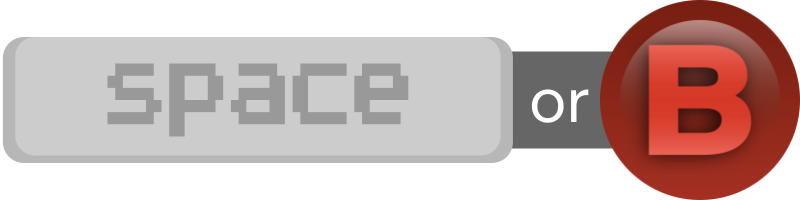
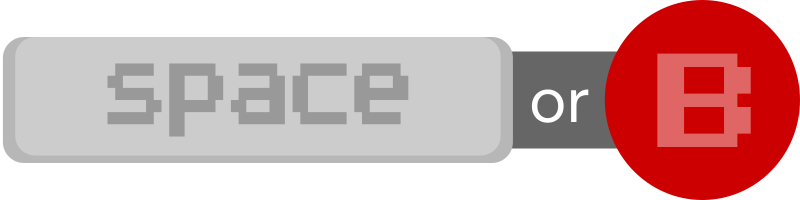
Update GamePad controls

Changed region(s): [[0.75, 0.0, 1.0, 1.0]]

diff --git a/Avoid/States/GameState.cs b/Avoid/States/GameState.cs
@@ -28,6 +28,7 @@ namespace Avoid.States
         private Button menuButton;
         private Button tryAgainButton;
         private Texture2D voidCircle;
+        private Texture2D aIcon;
         private Vector2 voidCirclePosition = new Vector2(710, 290);
         private HealthBar healthBar;
         private BlastBar blastBar;
@@ -200,6 +201,8 @@ namespace Avoid.States
                 stringSize = game.ArcadePI30.MeasureString(consolationMessage);
                 spriteBatch.DrawString(game.ArcadePI30, consolationMessage, new Vector2(960, 690) - stringSize / 2, Color.Gray);
                 tryAgainButton.Draw(spriteBatch);
+                if (game.gamePadState.IsConnected)
+                    spriteBatch.Draw(aIcon, new Vector2(1390, 800), Color.White);
             }
             // Always keep the menu button at the top left
             menuButton.Draw(spriteBatch);
@@ -237,6 +240,7 @@ namespace Avoid.States
             smallCircle = content.Load<Texture2D>("images/small_circle");
             arrows = content.Load<Texture2D>("images/up_down_arrows");
             spaceBar = content.Load<Texture2D>("images/space_bar");
+            aIcon = content.Load<Texture2D>("images/a_icon");
             celebratoryMessage = celebratoryMessages[rand.Next(celebratoryMessages.Length)];
             // Hint at how to get to the secret level if the player has completed the fifth level
             if (origLevel.id == 5)
@@ -277,10 +281,6 @@ namespace Avoid.States
                     gameStartTime = (float)gameTime.TotalGameTime.TotalMilliseconds;
                 }
                 return;
-            }
-            if (game.gamePadState.IsConnected)
-            {
-                tryAgainButton.text = "Try Again (A)";
             }
             if (!introInProgress && !musicPlaying)
             {

diff --git a/Avoid/States/Menu.cs b/Avoid/States/Menu.cs
@@ -15,7 +15,7 @@ namespace Avoid.States
 {
     class Menu : State
     {
-
+        private Texture2D menuControlsIcons;
         private Song backgroundMusic, ding;
         private Texture2D backgroundImage;
         private Texture2D titleImage;
@@ -42,10 +42,13 @@ namespace Avoid.States
             instructionsButton.Draw(spriteBatch);
             spriteBatch.DrawString(game.ArcadePI30, "a game by Sanjay R", new Vector2(170, 970), Color.Gray);
             game.levelManager.Draw(gameTime, spriteBatch);
+            if (game.gamePadState.IsConnected)
+                spriteBatch.Draw(menuControlsIcons, new Vector2(1680, 475), Color.White);
         }
 
         public override void LoadContent()
         {
+            menuControlsIcons = content.Load<Texture2D>("images/menu_controls_icons");
             backgroundMusic = content.Load<Song>("audio/lobby");
             ding = content.Load<Song>("audio/ding");
             backgroundImage = content.Load<Texture2D>("images/background2");
@@ -66,12 +69,6 @@ namespace Avoid.States
             if (menuStartTime == -1)
                 menuStartTime = (float)gameTime.TotalGameTime.TotalMilliseconds;
             // If a gamepad has been connected, add instructions for how to select on screen buttons to the button text
-            if (game.gamePadState.IsConnected)
-            {
-                playButton.text = "Start (A)";
-                leaderboardButton.text = "Leaderboard (X)";
-                instructionsButton.text = "How to Play (Y)";
-            }
             if (playButton.Clicked() || game.gamePadState.IsButtonDown(Buttons.A))
             {
                 MediaPlayer.Play(ding);
